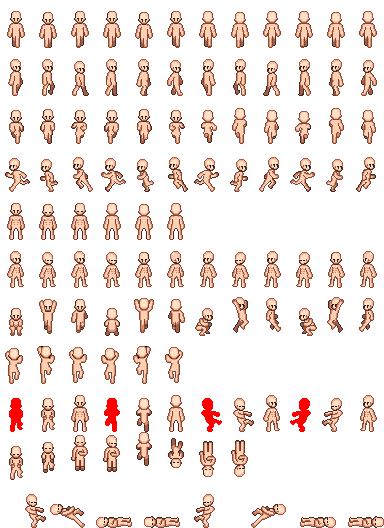
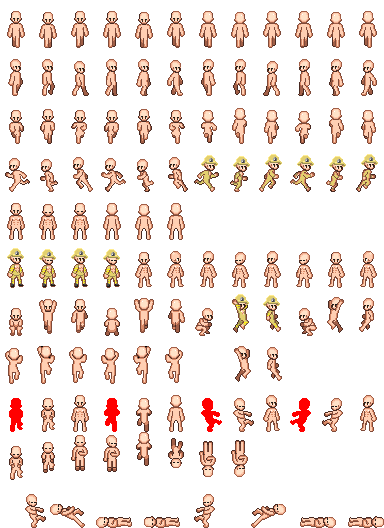
Modelando o player

diff --git a/classes/Player.js b/classes/Player.js
@@ -22,16 +22,16 @@ class Player {
     this.sprites = {
       idle: {
         x: 0,
-        y: 250,
+        y: 248,
         width: 32,
-        height: 38,
+        height: 40,
         frames: 4,
       },
       run: {
         x: 192,
-        y: 158,
+        y: 154,
         width: 32,
-        height: 42,
+        height: 40,
         frames: 6,
       },
       jump: {
